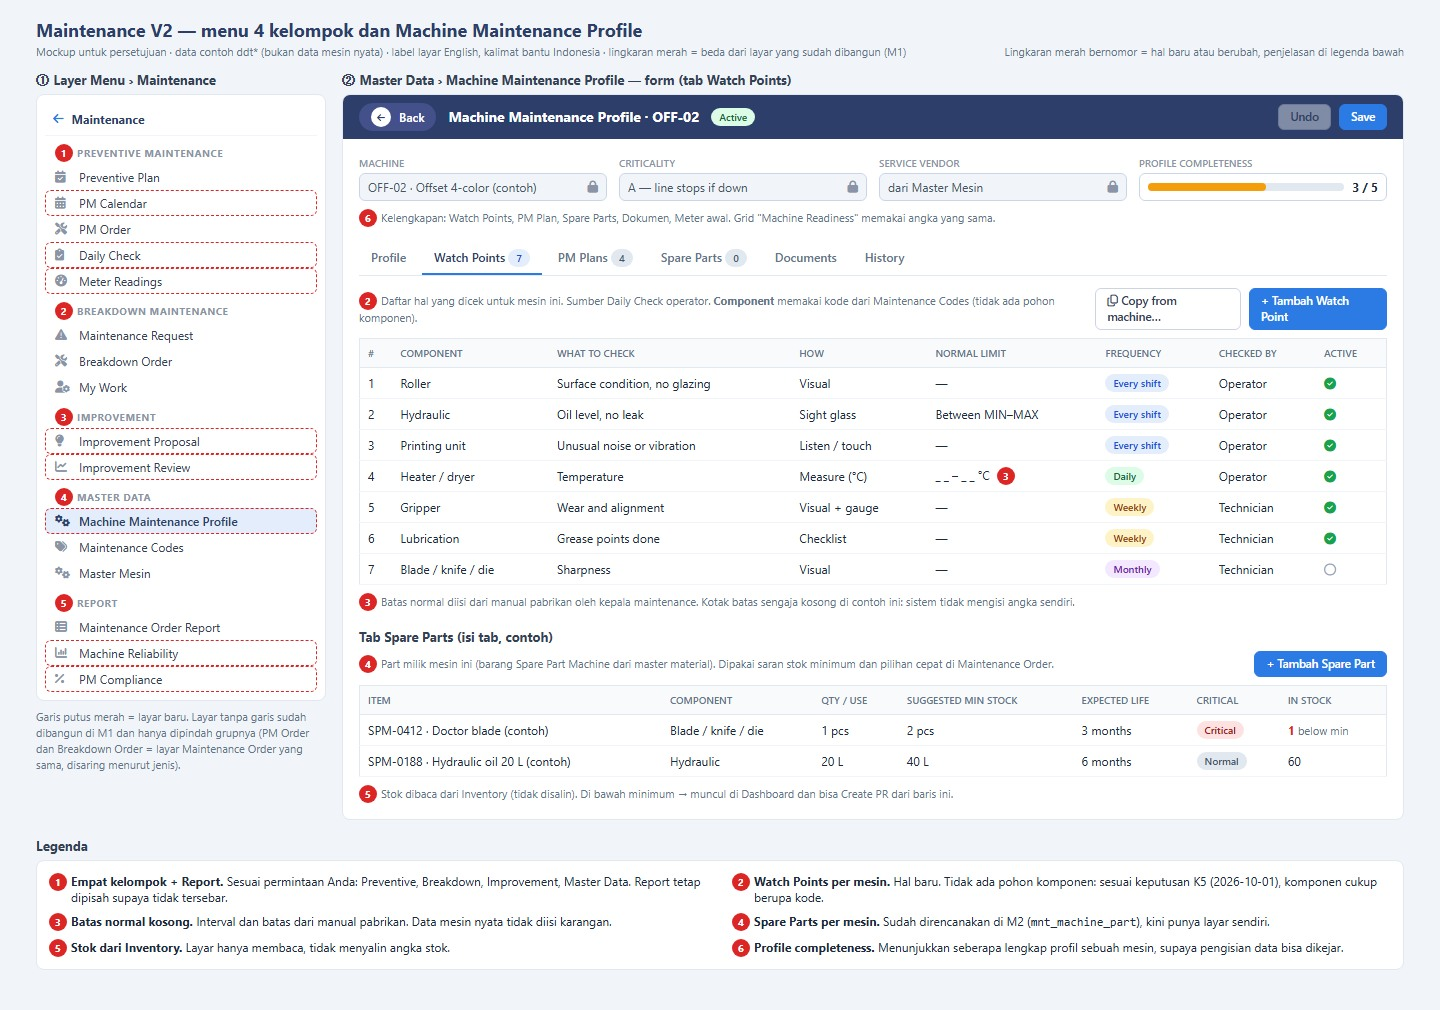
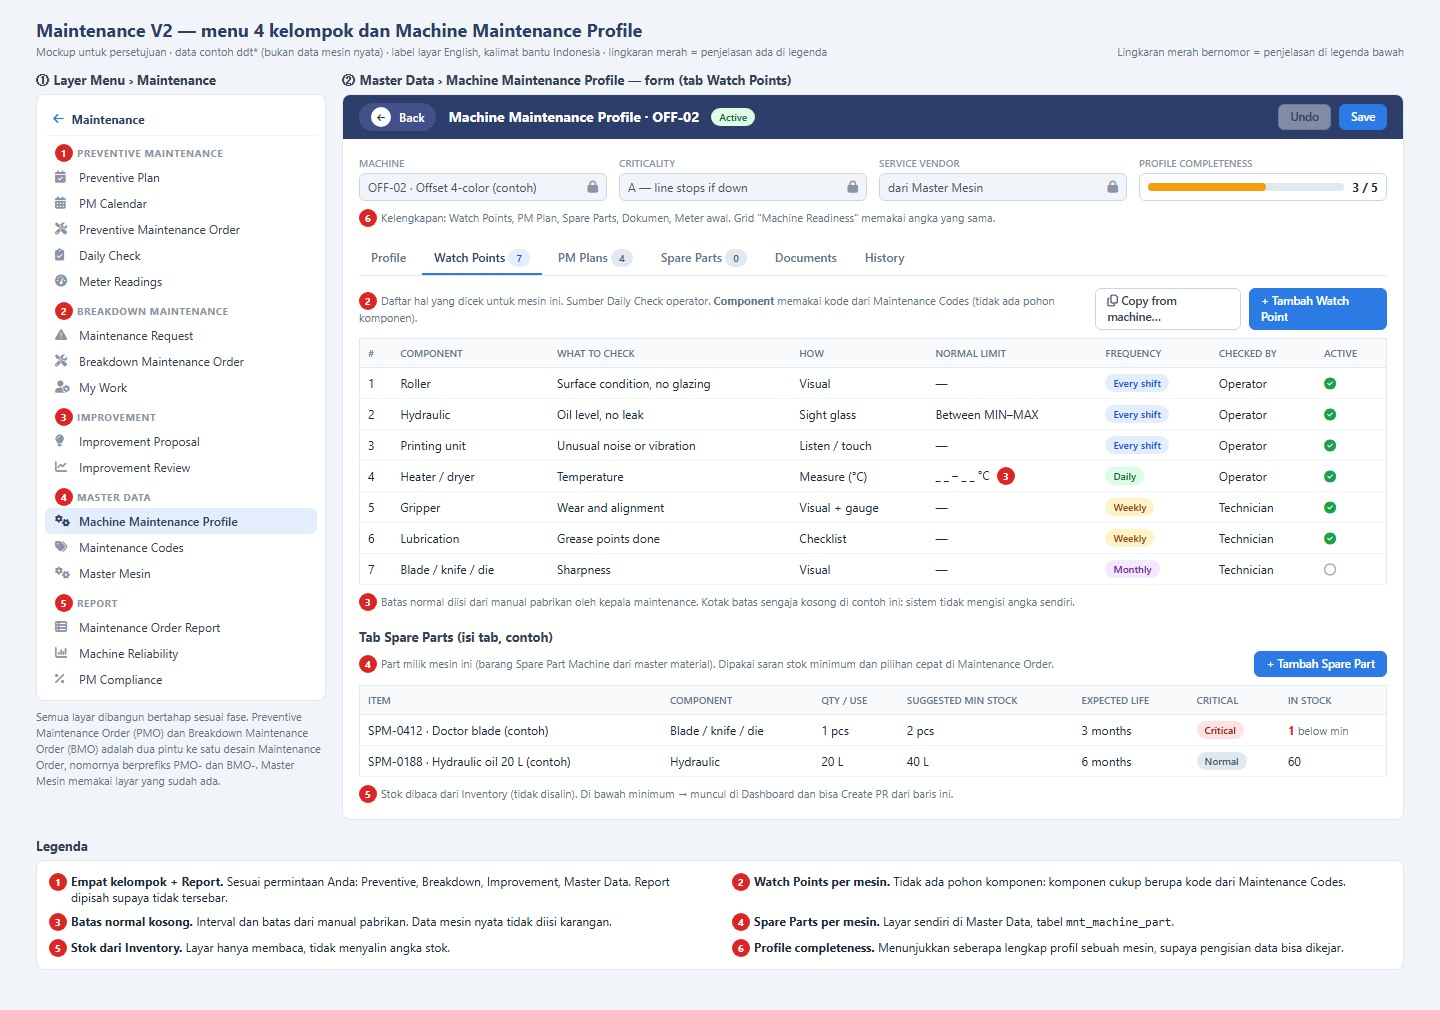
Maintenance: PMO and BMO named documents with consistent numbering (PMO-yymm-nnnn, BMO-yymm-nnnn, IMO-yymm-nnnn)
Menu doors renamed Preventive Maintenance Order and Breakdown Maintenance Order (codes MAINT_PMO, MAINT_BMO). Five order types stay in one table mnt_order; prefix follows the type. Mockups, Help topics and the numbering rule updated; stale M1 wording removed.

Agent: Jo

diff --git a/docs/mockups/maintenance_v2_work.html b/docs/mockups/maintenance_v2_work.html
@@ -44,7 +44,7 @@
 </div>
 
 <!-- ============ WO GRID ============ -->
-<div class="cap">① Preventive Maintenance › PM Order dan Breakdown Maintenance › Breakdown Order — grid (layar sama, saringan jenis berbeda) <span class="tag">1</span></div>
+<div class="cap">① Breakdown Maintenance › Breakdown Maintenance Order (BMO) dan Preventive Maintenance › Preventive Maintenance Order (PMO) — grid <span class="tag">1</span></div>
 <section class="card p-3 space-y-2">
   <div class="flt"><span class="on">All 11</span><span>Draft 2</span><span>Scheduled 3</span><span>In Progress 2</span><span>Waiting Part 1</span><span>Done 2</span><span>Closed 1</span></div>
   <div class="flex items-center gap-2">
@@ -57,12 +57,20 @@
   <table class="w-full">
     <thead><tr><th>Order</th><th>Machine</th><th>Type</th><th>Priority</th><th>Work status</th><th>Planned</th><th>Technician</th><th>Downtime</th><th>Source</th><th class="text-right">Action</th></tr></thead>
     <tbody>
-      <tr><td><b>MNO-2610-0012</b><div class="note">Feeder double-sheet, stop</div></td><td><b>OFF-02</b> Offset 4-color <span class="bdg bg-red-100 text-red-700">A</span></td><td><span class="bdg bg-red-100 text-red-700">BREAKDOWN</span></td><td><span class="bdg bg-red-600 text-white">P1</span></td><td><span class="bdg bg-sky-100 text-sky-700">In Progress</span></td><td>08-Oct-2026 08:40</td><td>Sutrisno</td><td class="text-red-700 font-semibold">2 h 35 m</td><td>MR-2610-0007</td><td class="text-right"><span class="btn"><i class="fa-solid fa-up-right-from-square"></i></span></td></tr>
-      <tr><td><b>MNO-2610-0014</b><div class="note">Noise from drive motor</div></td><td><b>DIE-04</b> Die cutter <span class="bdg bg-amber-100 text-amber-700">B</span></td><td><span class="bdg bg-sky-100 text-sky-700">CORRECTIVE</span></td><td><span class="bdg bg-slate-200">P3</span></td><td><span class="bdg bg-amber-100 text-amber-700">Waiting Part</span></td><td>09-Oct-2026 13:00</td><td>Agus</td><td>—</td><td>MR-2610-0009</td><td class="text-right"><span class="btn"><i class="fa-solid fa-up-right-from-square"></i></span></td></tr>
-      <tr><td><b>MNO-2609-0031</b><div class="note">Blade dull, uneven cut</div></td><td><b>CUT-01</b> Paper cutter <span class="bdg bg-amber-100 text-amber-700">B</span></td><td><span class="bdg bg-sky-100 text-sky-700">CORRECTIVE</span></td><td><span class="bdg bg-slate-200">P3</span></td><td><span class="bdg bg-emerald-100 text-emerald-700">Done</span></td><td>29-Sep-2026</td><td>Sutrisno</td><td>1 h 10 m</td><td>MR-2609-0022</td><td class="text-right"><span class="btn"><i class="fa-solid fa-up-right-from-square"></i></span> <span class="btn ok"><i class="fa-solid fa-check"></i></span></td></tr>
+      <tr><td><b>BMO-2610-0012</b><div class="note">Feeder double-sheet, stop</div></td><td><b>OFF-02</b> Offset 4-color <span class="bdg bg-red-100 text-red-700">A</span></td><td><span class="bdg bg-red-100 text-red-700">BREAKDOWN</span></td><td><span class="bdg bg-red-600 text-white">P1</span></td><td><span class="bdg bg-sky-100 text-sky-700">In Progress</span></td><td>08-Oct-2026 08:40</td><td>Sutrisno</td><td class="text-red-700 font-semibold">2 h 35 m</td><td>MR-2610-0007</td><td class="text-right"><span class="btn"><i class="fa-solid fa-up-right-from-square"></i></span></td></tr>
+      <tr><td><b>BMO-2610-0014</b><div class="note">Noise from drive motor</div></td><td><b>DIE-04</b> Die cutter <span class="bdg bg-amber-100 text-amber-700">B</span></td><td><span class="bdg bg-sky-100 text-sky-700">CORRECTIVE</span></td><td><span class="bdg bg-slate-200">P3</span></td><td><span class="bdg bg-amber-100 text-amber-700">Waiting Part</span></td><td>09-Oct-2026 13:00</td><td>Agus</td><td>—</td><td>MR-2610-0009</td><td class="text-right"><span class="btn"><i class="fa-solid fa-up-right-from-square"></i></span></td></tr>
+      <tr><td><b>BMO-2609-0031</b><div class="note">Blade dull, uneven cut</div></td><td><b>CUT-01</b> Paper cutter <span class="bdg bg-amber-100 text-amber-700">B</span></td><td><span class="bdg bg-sky-100 text-sky-700">CORRECTIVE</span></td><td><span class="bdg bg-slate-200">P3</span></td><td><span class="bdg bg-emerald-100 text-emerald-700">Done</span></td><td>29-Sep-2026</td><td>Sutrisno</td><td>1 h 10 m</td><td>MR-2609-0022</td><td class="text-right"><span class="btn"><i class="fa-solid fa-up-right-from-square"></i></span> <span class="btn ok"><i class="fa-solid fa-check"></i></span></td></tr>
     </tbody>
   </table>
-  <div class="note">Saringan jenis di toolbar: dari menu Breakdown Order jenis awalnya Breakdown dan Corrective, dari PM Order jenis awalnya Preventive dan Inspection. Tanpa kotak statistik, sesuai standar grid yang disetujui.</div>
+  <div class="cap" style="margin:10px 0 2px;font-size:12px">Preventive Maintenance Order (PMO)</div>
+  <table class="w-full">
+    <thead><tr><th>Order</th><th>Machine</th><th>Type</th><th>Priority</th><th>Work status</th><th>Planned</th><th>Technician</th><th>Downtime</th><th>Source</th><th class="text-right">Action</th></tr></thead>
+    <tbody>
+      <tr><td><b>PMO-2610-0011</b><div class="note">Monthly service: dampening, inking, gripper</div></td><td><b>OFF-01</b> Offset 2-color <span class="bdg bg-red-100 text-red-700">A</span></td><td><span class="bdg bg-violet-100 text-violet-700">PREVENTIVE</span></td><td><span class="bdg bg-slate-200">P3</span></td><td><span class="bdg bg-slate-100 text-slate-600">Scheduled</span></td><td>11-Oct-2026 07:00</td><td>Agus</td><td>—</td><td>PM-OFF01-01</td><td class="text-right"><span class="btn"><i class="fa-solid fa-up-right-from-square"></i></span></td></tr>
+      <tr><td><b>PMO-2610-0009</b><div class="note">Annual lifting-equipment inspection</div></td><td><b>FKL-01</b> Forklift <span class="bdg bg-slate-200">Support</span></td><td><span class="bdg bg-teal-100 text-teal-700">INSPECTION</span></td><td><span class="bdg bg-slate-200">P2</span></td><td><span class="bdg bg-slate-100 text-slate-600">Scheduled</span></td><td>15-Oct-2026</td><td>Vendor K3</td><td>—</td><td>PM-FKL01-02</td><td class="text-right"><span class="btn"><i class="fa-solid fa-up-right-from-square"></i></span></td></tr>
+    </tbody>
+  </table>
+  <div class="note">Satu desain dan satu tabel, dua pintu menu: PMO memuat jenis Preventive dan Inspection, BMO memuat jenis Breakdown dan Corrective, masing-masing dengan nomor sendiri. Tanpa kotak statistik, sesuai standar grid.</div>
 </section>
 
 <!-- ============ WO FORM ============ -->
@@ -70,7 +78,7 @@
 <section class="card overflow-hidden">
   <div class="bg-navy text-white px-4 py-2.5 flex items-center gap-2">
     <span class="back"><i class="fa-solid fa-arrow-left" style="font-size:9px"></i>Back</span>
-    <div class="ml-2"><div class="text-sm font-bold">Maintenance Order · MNO-2610-0012</div><div class="text-[10px] opacity-70">Breakdown Maintenance</div></div>
+    <div class="ml-2"><div class="text-sm font-bold">Breakdown Maintenance Order · BMO-2610-0012</div><div class="text-[10px] opacity-70">Breakdown Maintenance</div></div>
     <span class="bdg bg-emerald-100 text-emerald-700 ml-3">Confirmed</span>
     <span class="bdg bg-sky-100 text-sky-700">In Progress</span>
     <div class="ml-auto flex items-center gap-1.5">
@@ -152,7 +160,7 @@
         <div><div class="lbl">Plan code</div><div class="inp ro">PM-OFF01-01</div></div>
         <div class="col-span-2"><div class="lbl">Plan name</div><div class="inp">Monthly service: dampening, inking, gripper <span class="aa">Aa</span></div></div>
         <div><div class="lbl">Machine</div><div class="inp">OFF-01 Offset 2-color <i class="fa-solid fa-magnifying-glass text-slate-400"></i></div></div>
-        <div><div class="lbl">Maintenance order type</div><div class="inp">PREVENTIVE <i class="fa-solid fa-caret-down text-slate-400"></i></div></div>
+        <div><div class="lbl">Order type</div><div class="inp">PREVENTIVE <i class="fa-solid fa-caret-down text-slate-400"></i></div></div>
         <div><div class="lbl">Trigger</div><div class="inp">Time OR Meter, first reached <i class="fa-solid fa-caret-down text-slate-400"></i></div></div>
         <div><div class="lbl">Every</div><div class="inp">1 Month</div></div>
         <div><div class="lbl">Or every</div><div class="inp">250 Run hours</div></div>
@@ -197,7 +205,7 @@
 
 <div class="cap">Legenda</div>
 <div class="card p-3 grid grid-cols-2 gap-x-6 gap-y-2">
-  <div class="flex"><span class="tag">1</span><div><b>Satu layar Maintenance Order, dua pintu menu.</b> Saringan jenis berbeda, tanpa kotak statistik.</div></div>
+  <div class="flex"><span class="tag">1</span><div><b>Dua pintu menu, satu desain.</b> PMO (Preventive, Inspection) dan BMO (Breakdown, Corrective) berbagi kolom dan tabel, nomornya berbeda. Order Improvement (IMO) dibuka dari Improvement Proposal.</div></div>
   <div class="flex"><span class="tag">2</span><div><b>From machine spare parts.</b> Mengambil dari daftar part milik mesin (Master Data), lalu stok dibaca dari Inventory.</div></div>
   <div class="flex"><span class="tag">3</span><div><b>Tarif teknisi</b> dari konstanta di Settings › Constants, bukan data gaji.</div></div>
   <div class="flex"><span class="tag">4</span><div><b>Repeated failure.</b> Saran sistem bila kerusakan sama berulang, tombol membuka Improvement baru.</div></div>

diff --git a/docs/mockups/maintenance_v2_master.html b/docs/mockups/maintenance_v2_master.html
@@ -38,9 +38,9 @@
 <div class="flex items-end justify-between">
   <div>
     <div class="text-lg font-bold text-navy">Maintenance V2 — menu 4 kelompok dan Machine Maintenance Profile</div>
-    <div class="note">Mockup untuk persetujuan · data contoh ddt* (bukan data mesin nyata) · label layar English, kalimat bantu Indonesia · lingkaran merah = beda dari layar yang sudah dibangun (M1)</div>
+    <div class="note">Mockup untuk persetujuan · data contoh ddt* (bukan data mesin nyata) · label layar English, kalimat bantu Indonesia · lingkaran merah = penjelasan ada di legenda</div>
   </div>
-  <div class="note text-right">Lingkaran merah bernomor = hal baru atau berubah, penjelasan di legenda bawah</div>
+  <div class="note text-right">Lingkaran merah bernomor = penjelasan di legenda bawah</div>
 </div>
 
 <div class="grid gap-4 mt-3" style="grid-template-columns: 290px 1fr;">
@@ -53,31 +53,31 @@
 
       <div class="menu-g"><span class="tag">1</span>Preventive Maintenance</div>
       <div class="menu-i"><i class="fa-solid fa-calendar-check w-4 text-muted"></i>Preventive Plan</div>
-      <div class="menu-i new"><i class="fa-solid fa-calendar-days w-4 text-muted"></i>PM Calendar</div>
-      <div class="menu-i"><i class="fa-solid fa-screwdriver-wrench w-4 text-muted"></i>PM Order</div>
-      <div class="menu-i new"><i class="fa-solid fa-clipboard-check w-4 text-muted"></i>Daily Check</div>
-      <div class="menu-i new"><i class="fa-solid fa-gauge-high w-4 text-muted"></i>Meter Readings</div>
+      <div class="menu-i"><i class="fa-solid fa-calendar-days w-4 text-muted"></i>PM Calendar</div>
+      <div class="menu-i"><i class="fa-solid fa-screwdriver-wrench w-4 text-muted"></i>Preventive Maintenance Order</div>
+      <div class="menu-i"><i class="fa-solid fa-clipboard-check w-4 text-muted"></i>Daily Check</div>
+      <div class="menu-i"><i class="fa-solid fa-gauge-high w-4 text-muted"></i>Meter Readings</div>
 
       <div class="menu-g"><span class="tag">2</span>Breakdown Maintenance</div>
       <div class="menu-i"><i class="fa-solid fa-triangle-exclamation w-4 text-muted"></i>Maintenance Request</div>
-      <div class="menu-i"><i class="fa-solid fa-screwdriver-wrench w-4 text-muted"></i>Breakdown Order</div>
+      <div class="menu-i"><i class="fa-solid fa-screwdriver-wrench w-4 text-muted"></i>Breakdown Maintenance Order</div>
       <div class="menu-i"><i class="fa-solid fa-user-gear w-4 text-muted"></i>My Work</div>
 
       <div class="menu-g"><span class="tag">3</span>Improvement</div>
-      <div class="menu-i new"><i class="fa-solid fa-lightbulb w-4 text-muted"></i>Improvement Proposal</div>
-      <div class="menu-i new"><i class="fa-solid fa-chart-line w-4 text-muted"></i>Improvement Review</div>
+      <div class="menu-i"><i class="fa-solid fa-lightbulb w-4 text-muted"></i>Improvement Proposal</div>
+      <div class="menu-i"><i class="fa-solid fa-chart-line w-4 text-muted"></i>Improvement Review</div>
 
       <div class="menu-g"><span class="tag">4</span>Master Data</div>
-      <div class="menu-i on new"><i class="fa-solid fa-gears w-4"></i>Machine Maintenance Profile</div>
+      <div class="menu-i on"><i class="fa-solid fa-gears w-4"></i>Machine Maintenance Profile</div>
       <div class="menu-i"><i class="fa-solid fa-tags w-4 text-muted"></i>Maintenance Codes</div>
       <div class="menu-i"><i class="fa-solid fa-gears w-4 text-muted"></i>Master Mesin</div>
 
       <div class="menu-g"><span class="tag">5</span>Report</div>
       <div class="menu-i"><i class="fa-solid fa-table-list w-4 text-muted"></i>Maintenance Order Report</div>
-      <div class="menu-i new"><i class="fa-solid fa-chart-column w-4 text-muted"></i>Machine Reliability</div>
-      <div class="menu-i new"><i class="fa-solid fa-percent w-4 text-muted"></i>PM Compliance</div>
+      <div class="menu-i"><i class="fa-solid fa-chart-column w-4 text-muted"></i>Machine Reliability</div>
+      <div class="menu-i"><i class="fa-solid fa-percent w-4 text-muted"></i>PM Compliance</div>
     </div>
-    <div class="note mt-2">Garis putus merah = layar baru. Layar tanpa garis sudah dibangun di M1 dan hanya dipindah grupnya (PM Order dan Breakdown Order = layar Maintenance Order yang sama, disaring menurut jenis).</div>
+    <div class="note mt-2">Semua layar dibangun bertahap sesuai fase. Preventive Maintenance Order (PMO) dan Breakdown Maintenance Order (BMO) adalah dua pintu ke satu desain Maintenance Order, nomornya berprefiks PMO- dan BMO-. Master Mesin memakai layar yang sudah ada.</div>
   </div>
 
   <!-- ===== PROFILE FORM ===== -->
@@ -149,10 +149,10 @@
 
 <div class="cap">Legenda</div>
 <div class="card p-3 grid grid-cols-2 gap-x-6 gap-y-2">
-  <div class="flex"><span class="tag">1</span><div><b>Empat kelompok + Report.</b> Sesuai permintaan Anda: Preventive, Breakdown, Improvement, Master Data. Report tetap dipisah supaya tidak tersebar.</div></div>
-  <div class="flex"><span class="tag">2</span><div><b>Watch Points per mesin.</b> Hal baru. Tidak ada pohon komponen: sesuai keputusan K5 (2026-10-01), komponen cukup berupa kode.</div></div>
+  <div class="flex"><span class="tag">1</span><div><b>Empat kelompok + Report.</b> Sesuai permintaan Anda: Preventive, Breakdown, Improvement, Master Data. Report dipisah supaya tidak tersebar.</div></div>
+  <div class="flex"><span class="tag">2</span><div><b>Watch Points per mesin.</b> Tidak ada pohon komponen: komponen cukup berupa kode dari Maintenance Codes.</div></div>
   <div class="flex"><span class="tag">3</span><div><b>Batas normal kosong.</b> Interval dan batas dari manual pabrikan. Data mesin nyata tidak diisi karangan.</div></div>
-  <div class="flex"><span class="tag">4</span><div><b>Spare Parts per mesin.</b> Sudah direncanakan di M2 (<code>mnt_machine_part</code>), kini punya layar sendiri.</div></div>
+  <div class="flex"><span class="tag">4</span><div><b>Spare Parts per mesin.</b> Layar sendiri di Master Data, tabel <code>mnt_machine_part</code>.</div></div>
   <div class="flex"><span class="tag">5</span><div><b>Stok dari Inventory.</b> Layar hanya membaca, tidak menyalin angka stok.</div></div>
   <div class="flex"><span class="tag">6</span><div><b>Profile completeness.</b> Menunjukkan seberapa lengkap profil sebuah mesin, supaya pengisian data bisa dikejar.</div></div>
 </div>

diff --git a/docs/mockups/maintenance_v2_more.html b/docs/mockups/maintenance_v2_more.html
@@ -70,7 +70,7 @@
     <div class="col-span-2"><div class="lbl">Symptom</div><div class="inp" style="min-height:44px;align-items:flex-start">Heater reading 96 °C, check shows Not OK. <span class="aa">Aa</span></div></div>
     <div><div class="lbl">Reported by</div><div class="inp ro">Operator (Daily Check)</div></div>
     <div><div class="lbl">Source</div><div class="inp ro">Daily Check DC-2610-0041 ↗</div></div>
-    <div class="col-span-2 note">Accept membuat Maintenance Order Confirmed dengan teknisi dan jadwal yang dipilih. Reject wajib alasan. Request P1 pada mesin berhenti sudah otomatis menjadi Maintenance Order.</div>
+    <div class="col-span-2 note">Accept membuat BMO Confirmed dengan teknisi dan jadwal yang dipilih. Reject wajib alasan. Request P1 pada mesin berhenti sudah otomatis menjadi Maintenance Order.</div>
   </div>
 </section>
 </div>
@@ -176,9 +176,9 @@
   <div class="phone">
     <div class="px-3 py-2 text-white" style="background:#2c3e69"><div class="font-bold">My Work</div><div class="text-[10px] opacity-70">Sutrisno · Thu 08-Oct</div></div>
     <div class="p-3 space-y-2">
-      <div class="card p-2" style="border-left:4px solid #ef4444"><div class="flex justify-between"><b>MNO-2610-0012</b><span class="bdg bg-red-600 text-white">P1</span></div><div>OFF-02 · Feeder double-sheet</div><div class="flex gap-1 mt-1"><span class="btn warn">Hold</span><span class="btn ok">Done</span></div></div>
-      <div class="card p-2" style="border-left:4px solid #8b5cf6"><div class="flex justify-between"><b>MNO-2610-0013</b><span class="bdg bg-slate-200">P3</span></div><div>DIE-04 · Weekly lubrication · 13:00</div><div class="flex gap-1 mt-1"><span class="btn pri">Start</span></div></div>
-      <div class="card p-2" style="border-left:4px solid #cbd5e1"><div class="flex justify-between"><b>MNO-2609-0031</b><span class="bdg bg-emerald-100 text-emerald-700">Done</span></div><div class="note">CUT-01 · waiting Close by head</div></div>
+      <div class="card p-2" style="border-left:4px solid #ef4444"><div class="flex justify-between"><b>BMO-2610-0012</b><span class="bdg bg-red-600 text-white">P1</span></div><div>OFF-02 · Feeder double-sheet</div><div class="flex gap-1 mt-1"><span class="btn warn">Hold</span><span class="btn ok">Done</span></div></div>
+      <div class="card p-2" style="border-left:4px solid #8b5cf6"><div class="flex justify-between"><b>PMO-2610-0013</b><span class="bdg bg-slate-200">P3</span></div><div>DIE-04 · Weekly lubrication · 13:00</div><div class="flex gap-1 mt-1"><span class="btn pri">Start</span></div></div>
+      <div class="card p-2" style="border-left:4px solid #cbd5e1"><div class="flex justify-between"><b>BMO-2609-0031</b><span class="bdg bg-emerald-100 text-emerald-700">Done</span></div><div class="note">CUT-01 · waiting Close by head</div></div>
       <div class="card p-2"><div class="lbl">Checklist (PM)</div><div>☑ Clean rollers · ☑ Lubricate grippers · ☐ Air pressure</div></div>
     </div>
   </div>

diff --git a/docs/mockups/maintenance_v2_flow.html b/docs/mockups/maintenance_v2_flow.html
@@ -42,7 +42,7 @@
 <div class="flex items-end justify-between">
   <div>
     <div class="text-lg font-bold text-navy">Maintenance V2 — Improvement, Daily Check, PM Calendar</div>
-    <div class="note">Mockup untuk persetujuan · data contoh ddt* · label layar English, kalimat bantu Indonesia · semua layar di bawah baru (belum ada di M1)</div>
+    <div class="note">Mockup untuk persetujuan · data contoh ddt* · label layar English, kalimat bantu Indonesia · semua layar di bawah dibangun di fase masing-masing</div>
   </div>
 </div>
 
@@ -132,7 +132,7 @@
         <tr><td><span class="d">12</span></td><td><span class="d">13</span><span class="pm">LAM-01 Heater</span></td><td><span class="d">14</span></td><td><span class="d">15</span></td><td><span class="d">16</span><span class="insp">FKL-01 K3 check</span></td><td><span class="d">17</span></td><td><span class="d">18</span></td></tr>
       </tbody>
     </table>
-    <div class="note mt-2"><span class="tag">7</span>Klik kotak PM membuka Maintenance Order-nya. Kotak bergaris (machine blocked) juga tampil di Scheduling Board sebagai blok "MTN" (rencana M2). Geser jadwal = usulan, kepala maintenance mengonfirmasi.</div>
+    <div class="note mt-2"><span class="tag">7</span>Klik kotak PM membuka Maintenance Order-nya. Kotak bergaris (machine blocked) juga tampil di Scheduling Board sebagai blok "MTN" (rencana Fase 2). Geser jadwal = usulan, kepala maintenance mengonfirmasi.</div>
   </div>
 </div>
 

diff --git a/database/migrations/2026_10_08_000010_maintenance_module_menu.php b/database/migrations/2026_10_08_000010_maintenance_module_menu.php
@@ -101,13 +101,13 @@ return new class extends Migration
         $add('MAINT_GRP_PM', 'MAINT', 'Preventive Maintenance', 'fa-solid fa-calendar-check', 'group', ['sort_order' => 10]);
         $item('MAINT_PLAN', 'MAINT_GRP_PM', 'Preventive Plan', 'fa-solid fa-calendar-check', 10);
         $item('MAINT_PM_CAL', 'MAINT_GRP_PM', 'PM Calendar', 'fa-solid fa-calendar-days', 20);
-        $item('MAINT_PM_ORDER', 'MAINT_GRP_PM', 'PM Order', 'fa-solid fa-screwdriver-wrench', 30);
+        $item('MAINT_PMO', 'MAINT_GRP_PM', 'Preventive Maintenance Order', 'fa-solid fa-screwdriver-wrench', 30);
         $item('MAINT_DAILY', 'MAINT_GRP_PM', 'Daily Check', 'fa-solid fa-clipboard-check', 40);
         $item('MAINT_METER', 'MAINT_GRP_PM', 'Meter Readings', 'fa-solid fa-gauge-high', 50);
 
         $add('MAINT_GRP_BD', 'MAINT', 'Breakdown Maintenance', 'fa-solid fa-triangle-exclamation', 'group', ['sort_order' => 20]);
         $item('MAINT_REQ', 'MAINT_GRP_BD', 'Maintenance Request', 'fa-solid fa-triangle-exclamation', 10);
-        $item('MAINT_BD_ORDER', 'MAINT_GRP_BD', 'Breakdown Order', 'fa-solid fa-screwdriver-wrench', 20);
+        $item('MAINT_BMO', 'MAINT_GRP_BD', 'Breakdown Maintenance Order', 'fa-solid fa-screwdriver-wrench', 20);
         $item('MAINT_MYWORK', 'MAINT_GRP_BD', 'My Work', 'fa-solid fa-user-gear', 30);
 
         $add('MAINT_GRP_IMP', 'MAINT', 'Improvement', 'fa-solid fa-lightbulb', 'group', ['sort_order' => 30]);
